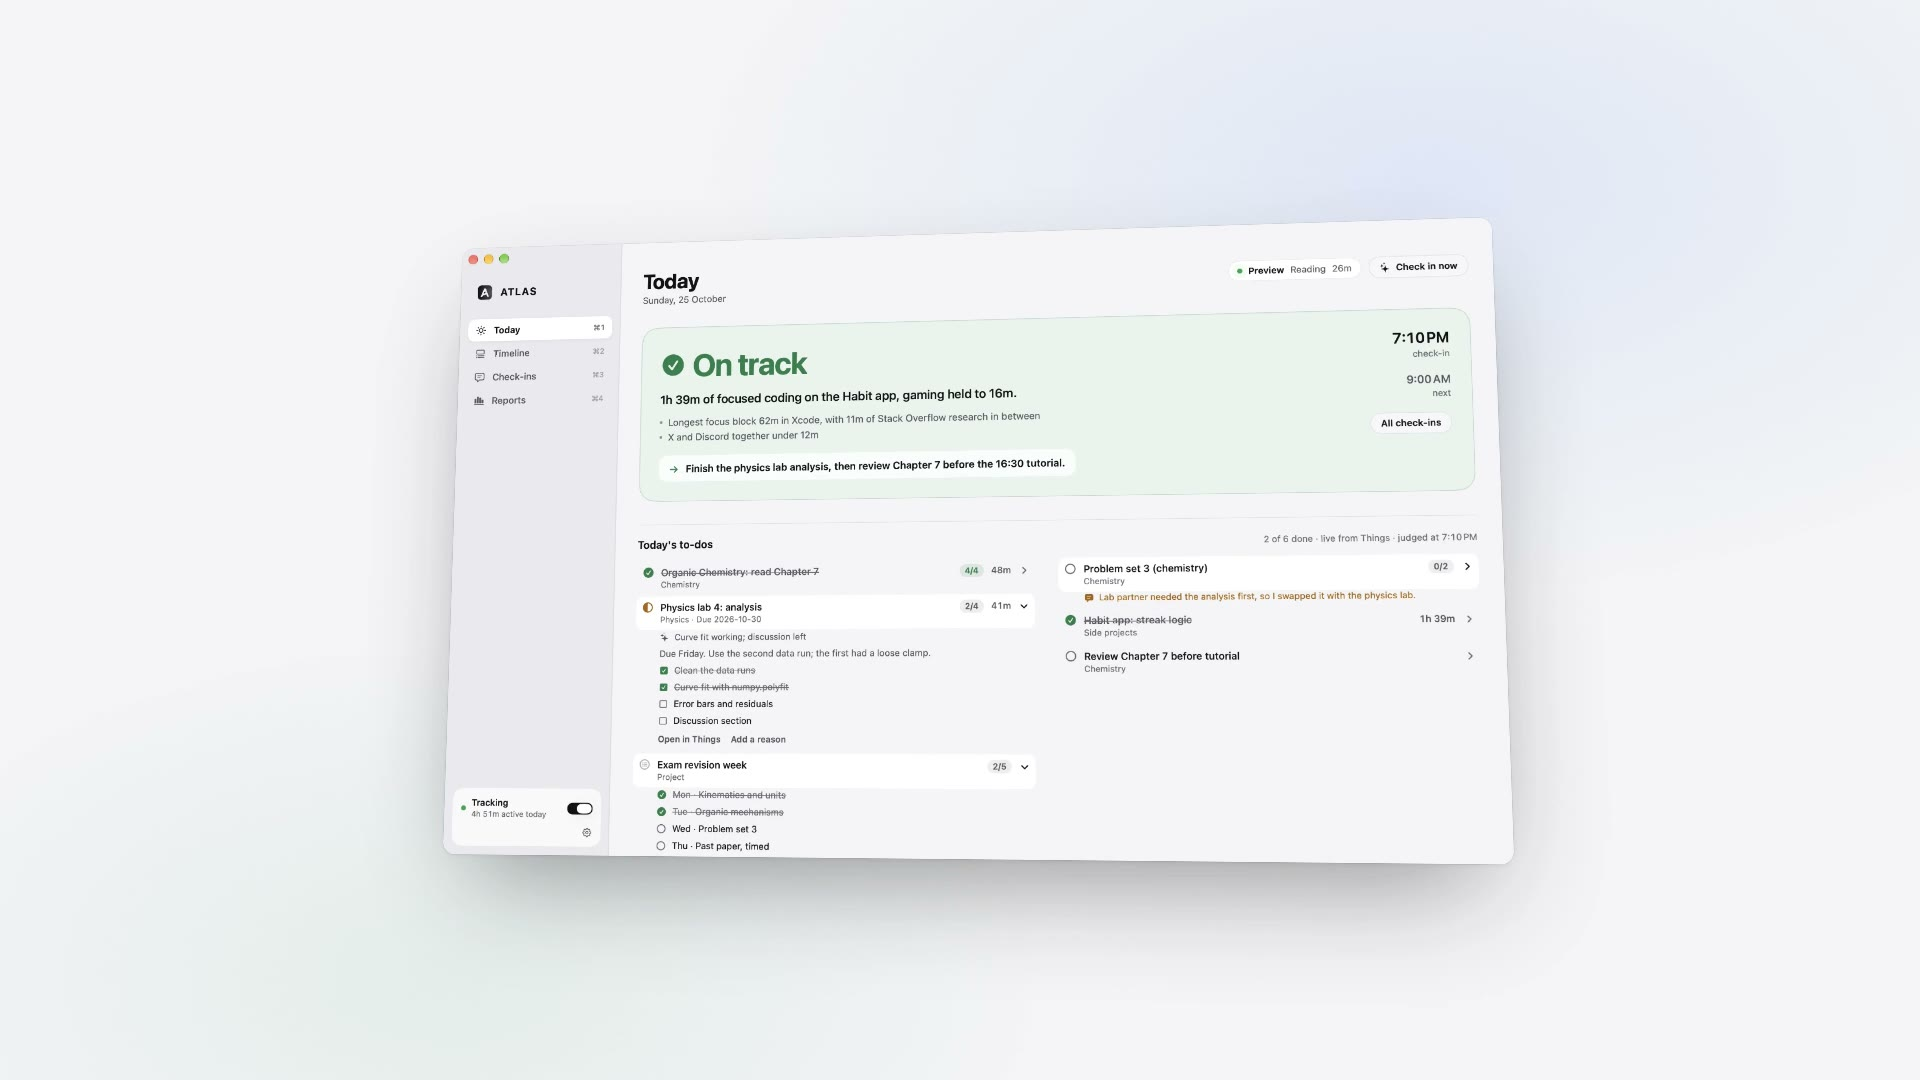
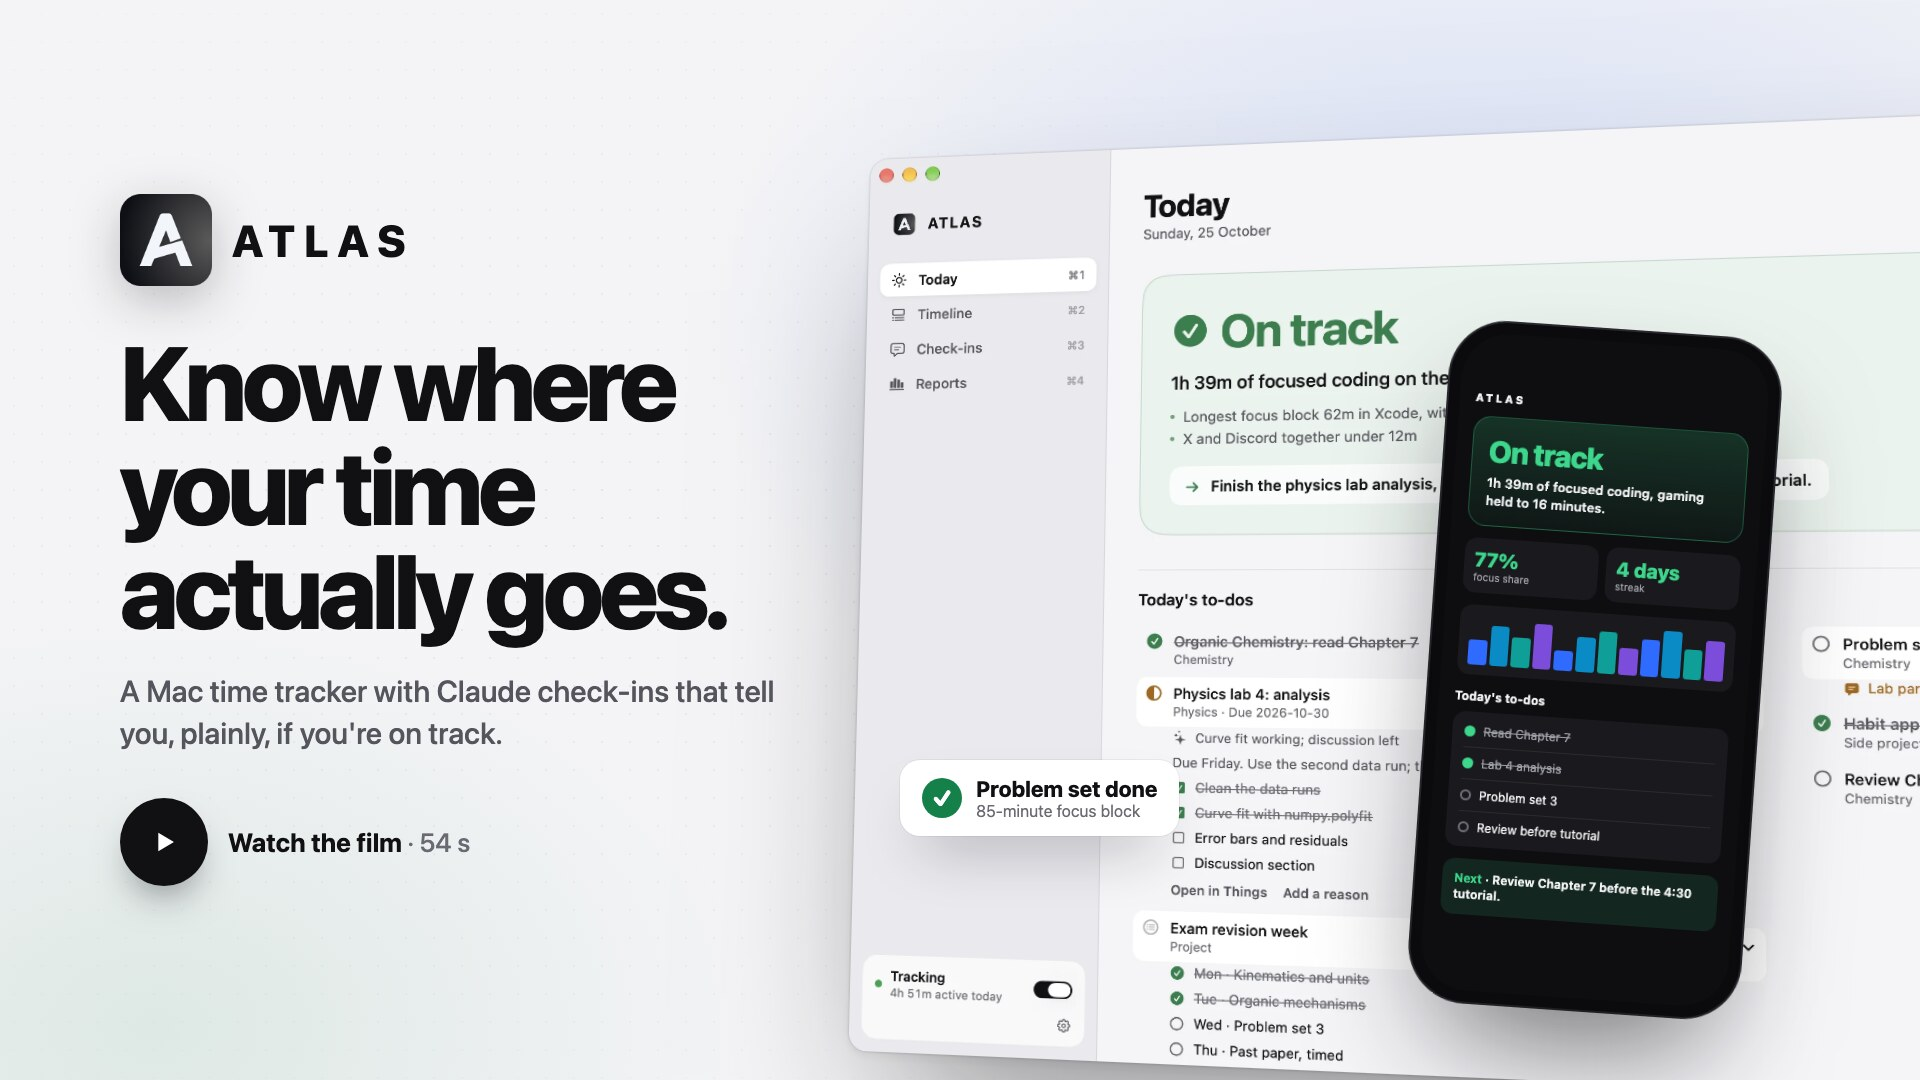
Designed light thumbnail for the film and link previews
Replaces the frame-grab poster and the old dark Open Graph image with a composed
Remotion still: the headline and a play button beside the Today window and the
check-in email on a phone. npm run poster (in promo/) re-renders both sizes.

diff --git a/promo/src/light/Thumbnail.tsx b/promo/src/light/Thumbnail.tsx
@@ -1,0 +1,84 @@
+import React from 'react';
+import { AbsoluteFill, Img, staticFile } from 'remotion';
+import { FONT } from '../theme';
+import { L } from './theme';
+
+/** Poster and link-preview image: the promise on the left, the product on the right. `w` sets the layout scale. */
+export const Thumbnail: React.FC<{ w?: number }> = ({ w = 1920 }) => {
+  const s = w / 1920;
+  const D = { card: '#1a1a1e', ink: '#f4f4f6', ink2: '#a1a1aa', on: '#3dd68c' };
+  return (
+    <AbsoluteFill style={{ background: L.ground, fontFamily: FONT, color: L.ink, overflow: 'hidden' }}>
+      <AbsoluteFill style={{ background: 'radial-gradient(60% 70% at 78% 30%, rgba(47,107,255,0.16), rgba(255,255,255,0) 70%), radial-gradient(45% 55% at 8% 95%, rgba(22,128,74,0.10), rgba(255,255,255,0) 70%)' }} />
+      <AbsoluteFill style={{ backgroundImage: 'radial-gradient(rgba(17,17,19,0.07) 1px, transparent 1px)', backgroundSize: `${28 * s}px ${28 * s}px`,
+        maskImage: 'radial-gradient(60% 70% at 30% 50%, black, transparent)' }} />
+
+      {/* Product, right */}
+      <div style={{ position: 'absolute', left: 860 * s, top: 150 * s, width: 1500 * s, transform: 'perspective(2600px) rotateY(-14deg) rotateX(6deg)', transformOrigin: 'left center' }}>
+        <div style={{ borderRadius: 18 * s, overflow: 'hidden', boxShadow: `0 ${4 * s}px ${8 * s}px rgba(17,17,19,0.06), 0 ${80 * s}px ${160 * s}px -${50 * s}px rgba(17,17,19,0.5), 0 0 0 ${1.5 * s}px rgba(17,17,19,0.08)` }}>
+          <Img src={staticFile('today-light.webp')} style={{ width: '100%', display: 'block' }} />
+        </div>
+      </div>
+
+      {/* Phone with the email */}
+      <div style={{ position: 'absolute', left: 1430 * s, top: 330 * s, width: 330 * s, height: 680 * s, borderRadius: 56 * s, background: '#0b0b0d', padding: 11 * s,
+        boxShadow: `0 ${60 * s}px ${120 * s}px -${30 * s}px rgba(17,17,19,0.6), 0 0 0 ${2 * s}px #2a2a30`, transform: 'rotate(4deg)' }}>
+        <div style={{ width: '100%', height: '100%', borderRadius: 46 * s, background: '#0e0e10', overflow: 'hidden', padding: `${58 * s}px ${16 * s}px`, color: D.ink }}>
+          <div style={{ fontSize: 11 * s, letterSpacing: 2.5 * s, fontWeight: 800 }}>ATLAS</div>
+          <div style={{ marginTop: 12 * s, borderRadius: 18 * s, padding: 16 * s, background: 'linear-gradient(180deg, rgba(61,214,140,0.18), rgba(61,214,140,0.05))', border: `${1 * s}px solid rgba(61,214,140,0.3)` }}>
+            <div style={{ fontSize: 30 * s, fontWeight: 800, color: D.on, letterSpacing: -1 * s }}>On track</div>
+            <div style={{ fontSize: 13 * s, fontWeight: 600, marginTop: 6 * s, lineHeight: 1.35 }}>1h 39m of focused coding, gaming held to 16 minutes.</div>
+          </div>
+          <div style={{ display: 'grid', gridTemplateColumns: '1fr 1fr', gap: 8 * s, marginTop: 12 * s }}>
+            {[['77%', 'focus share'], ['4 days', 'streak']].map(([v, l]) => (
+              <div key={v} style={{ background: D.card, borderRadius: 12 * s, padding: 10 * s }}>
+                <div style={{ fontSize: 20 * s, fontWeight: 800, color: D.on }}>{v}</div><div style={{ fontSize: 10 * s, color: D.ink2 }}>{l}</div>
+              </div>
+            ))}
+          </div>
+          <div style={{ marginTop: 12 * s, background: D.card, borderRadius: 12 * s, padding: 10 * s, display: 'flex', gap: 3 * s, alignItems: 'flex-end', height: 70 * s }}>
+            {[0.5, 0.8, 0.6, 0.9, 0.4, 0.7, 0.85, 0.55, 0.75, 0.95, 0.6, 0.8].map((h, i) => (
+              <div key={i} style={{ flex: 1, height: `${h * 100}%`, borderRadius: 3 * s, background: ['#2f6bff', '#0b8bc6', '#0f9f98', '#7c4ddb'][i % 4] }} />
+            ))}
+          </div>
+          <div style={{ marginTop: 14 * s, fontSize: 12 * s, fontWeight: 700 }}>Today's to-dos</div>
+          <div style={{ marginTop: 8 * s, background: D.card, borderRadius: 12 * s, padding: `${4 * s}px ${12 * s}px` }}>
+            {[['Read Chapter 7', true], ['Lab 4 analysis', true], ['Problem set 3', false], ['Review before tutorial', false]].map(([t, d], i) => (
+              <div key={i} style={{ display: 'flex', gap: 8 * s, alignItems: 'center', padding: `${8 * s}px 0`, borderTop: i ? `${1 * s}px solid #2a2a30` : 'none', fontSize: 12 * s,
+                color: d ? D.ink2 : D.ink, textDecoration: d ? 'line-through' : 'none' }}>
+                <span style={{ width: 11 * s, height: 11 * s, borderRadius: 6 * s, background: d ? D.on : 'transparent', border: d ? 'none' : `${2 * s}px solid #6e6e78` }} />{t as string}
+              </div>
+            ))}
+          </div>
+          <div style={{ marginTop: 12 * s, padding: 12 * s, borderRadius: 12 * s, background: 'rgba(61,214,140,0.12)', fontSize: 12 * s, fontWeight: 650, lineHeight: 1.35 }}>
+            <span style={{ color: D.on }}>Next</span> · Review Chapter 7 before the 4:30 tutorial.
+          </div>
+        </div>
+      </div>
+
+      {/* Floating chips */}
+      <div style={{ position: 'absolute', left: 900 * s, top: 760 * s, padding: `${16 * s}px ${22 * s}px`, borderRadius: 20 * s, background: L.surface, display: 'flex', gap: 14 * s, alignItems: 'center',
+        boxShadow: `0 ${30 * s}px ${60 * s}px -${24 * s}px rgba(17,17,19,0.4), 0 0 0 ${1 * s}px rgba(17,17,19,0.06)` }}>
+        <div style={{ width: 40 * s, height: 40 * s, borderRadius: 20 * s, background: L.on, color: '#fff', display: 'flex', alignItems: 'center', justifyContent: 'center', fontSize: 22 * s, fontWeight: 900 }}>✓</div>
+        <div><div style={{ fontSize: 22 * s, fontWeight: 750 }}>Problem set done</div><div style={{ fontSize: 16 * s, color: L.ink3 }}>85-minute focus block</div></div>
+      </div>
+
+      {/* Copy, left */}
+      <div style={{ position: 'absolute', left: 120 * s, top: 0, bottom: 0, width: 700 * s, display: 'flex', flexDirection: 'column', justifyContent: 'center' }}>
+        <div style={{ display: 'flex', alignItems: 'center', gap: 20 * s }}>
+          <Img src={staticFile('icon.png')} style={{ width: 92 * s, filter: `drop-shadow(0 ${14 * s}px ${24 * s}px rgba(17,17,19,0.25))` }} />
+          <div style={{ fontSize: 44 * s, fontWeight: 800, letterSpacing: '0.2em' }}>ATLAS</div>
+        </div>
+        <div style={{ fontSize: 104 * s, fontWeight: 800, letterSpacing: '-0.045em', lineHeight: 1.0, marginTop: 44 * s }}>Know where your time actually goes.</div>
+        <div style={{ fontSize: 30 * s, color: L.ink2, marginTop: 28 * s, lineHeight: 1.4, fontWeight: 500 }}>A Mac time tracker with Claude check-ins that tell you, plainly, if you're on track.</div>
+        <div style={{ display: 'flex', alignItems: 'center', gap: 20 * s, marginTop: 44 * s }}>
+          <div style={{ width: 88 * s, height: 88 * s, borderRadius: 44 * s, background: L.ink, display: 'flex', alignItems: 'center', justifyContent: 'center',
+            boxShadow: `0 ${20 * s}px ${40 * s}px -${16 * s}px rgba(17,17,19,0.6)` }}>
+            <svg width={34 * s} height={34 * s} viewBox="0 0 24 24"><path d="M8 5.5v13l11-6.5z" fill="#fff" /></svg>
+          </div>
+          <div style={{ fontSize: 26 * s, fontWeight: 700 }}>Watch the film <span style={{ color: L.ink3, fontWeight: 500 }}>· 54 s</span></div>
+        </div>
+      </div>
+    </AbsoluteFill>
+  );
+};

diff --git a/promo/src/Root.tsx b/promo/src/Root.tsx
@@ -1,8 +1,9 @@
 import React from 'react';
-import { Composition, Series } from 'remotion';
+import { Composition, Series, Still } from 'remotion';
 import { FPS } from './theme';
 import { Hook, Intro, Loop, Outro, Private, Ribbon, Screens, Today, Verdicts } from './scenes';
 import { Film, filmLength } from './light/Film';
+import { Thumbnail } from './light/Thumbnail';
 
 const scenes: [React.FC, number][] = [
   [Intro, 90],
@@ -31,6 +32,8 @@ const Promo: React.FC = () => (
 export const Root: React.FC = () => (
   <>
     <Composition id="Promo" component={Promo} durationInFrames={total} fps={FPS} width={1920} height={1080} />
+    <Still id="Thumbnail" component={Thumbnail} width={1920} height={1080} defaultProps={{ w: 1920 }} />
+    <Still id="OpenGraph" component={Thumbnail} width={1200} height={630} defaultProps={{ w: 1120 }} />
     <Composition id="Film" component={Film} durationInFrames={filmLength} fps={FPS} width={1920} height={1080} defaultProps={{ music: true }} />
   </>
 );

diff --git a/docs/index.html b/docs/index.html
@@ -17,7 +17,7 @@
 <meta property="og:image" content="https://atlasmac.web.app/assets/og.jpg">
 <meta property="og:image:width" content="1200">
 <meta property="og:image:height" content="630">
-<meta property="og:image:alt" content="The ATLAS Today screen showing an On track verdict">
+<meta property="og:image:alt" content="ATLAS: know where your time actually goes. The Today screen and a check-in email on a phone">
 <meta name="twitter:card" content="summary_large_image">
 <meta name="twitter:title" content="ATLAS: know where your time actually goes">
 <meta name="twitter:description" content="A free, local-first time tracker for macOS with scheduled Claude check-ins.">
